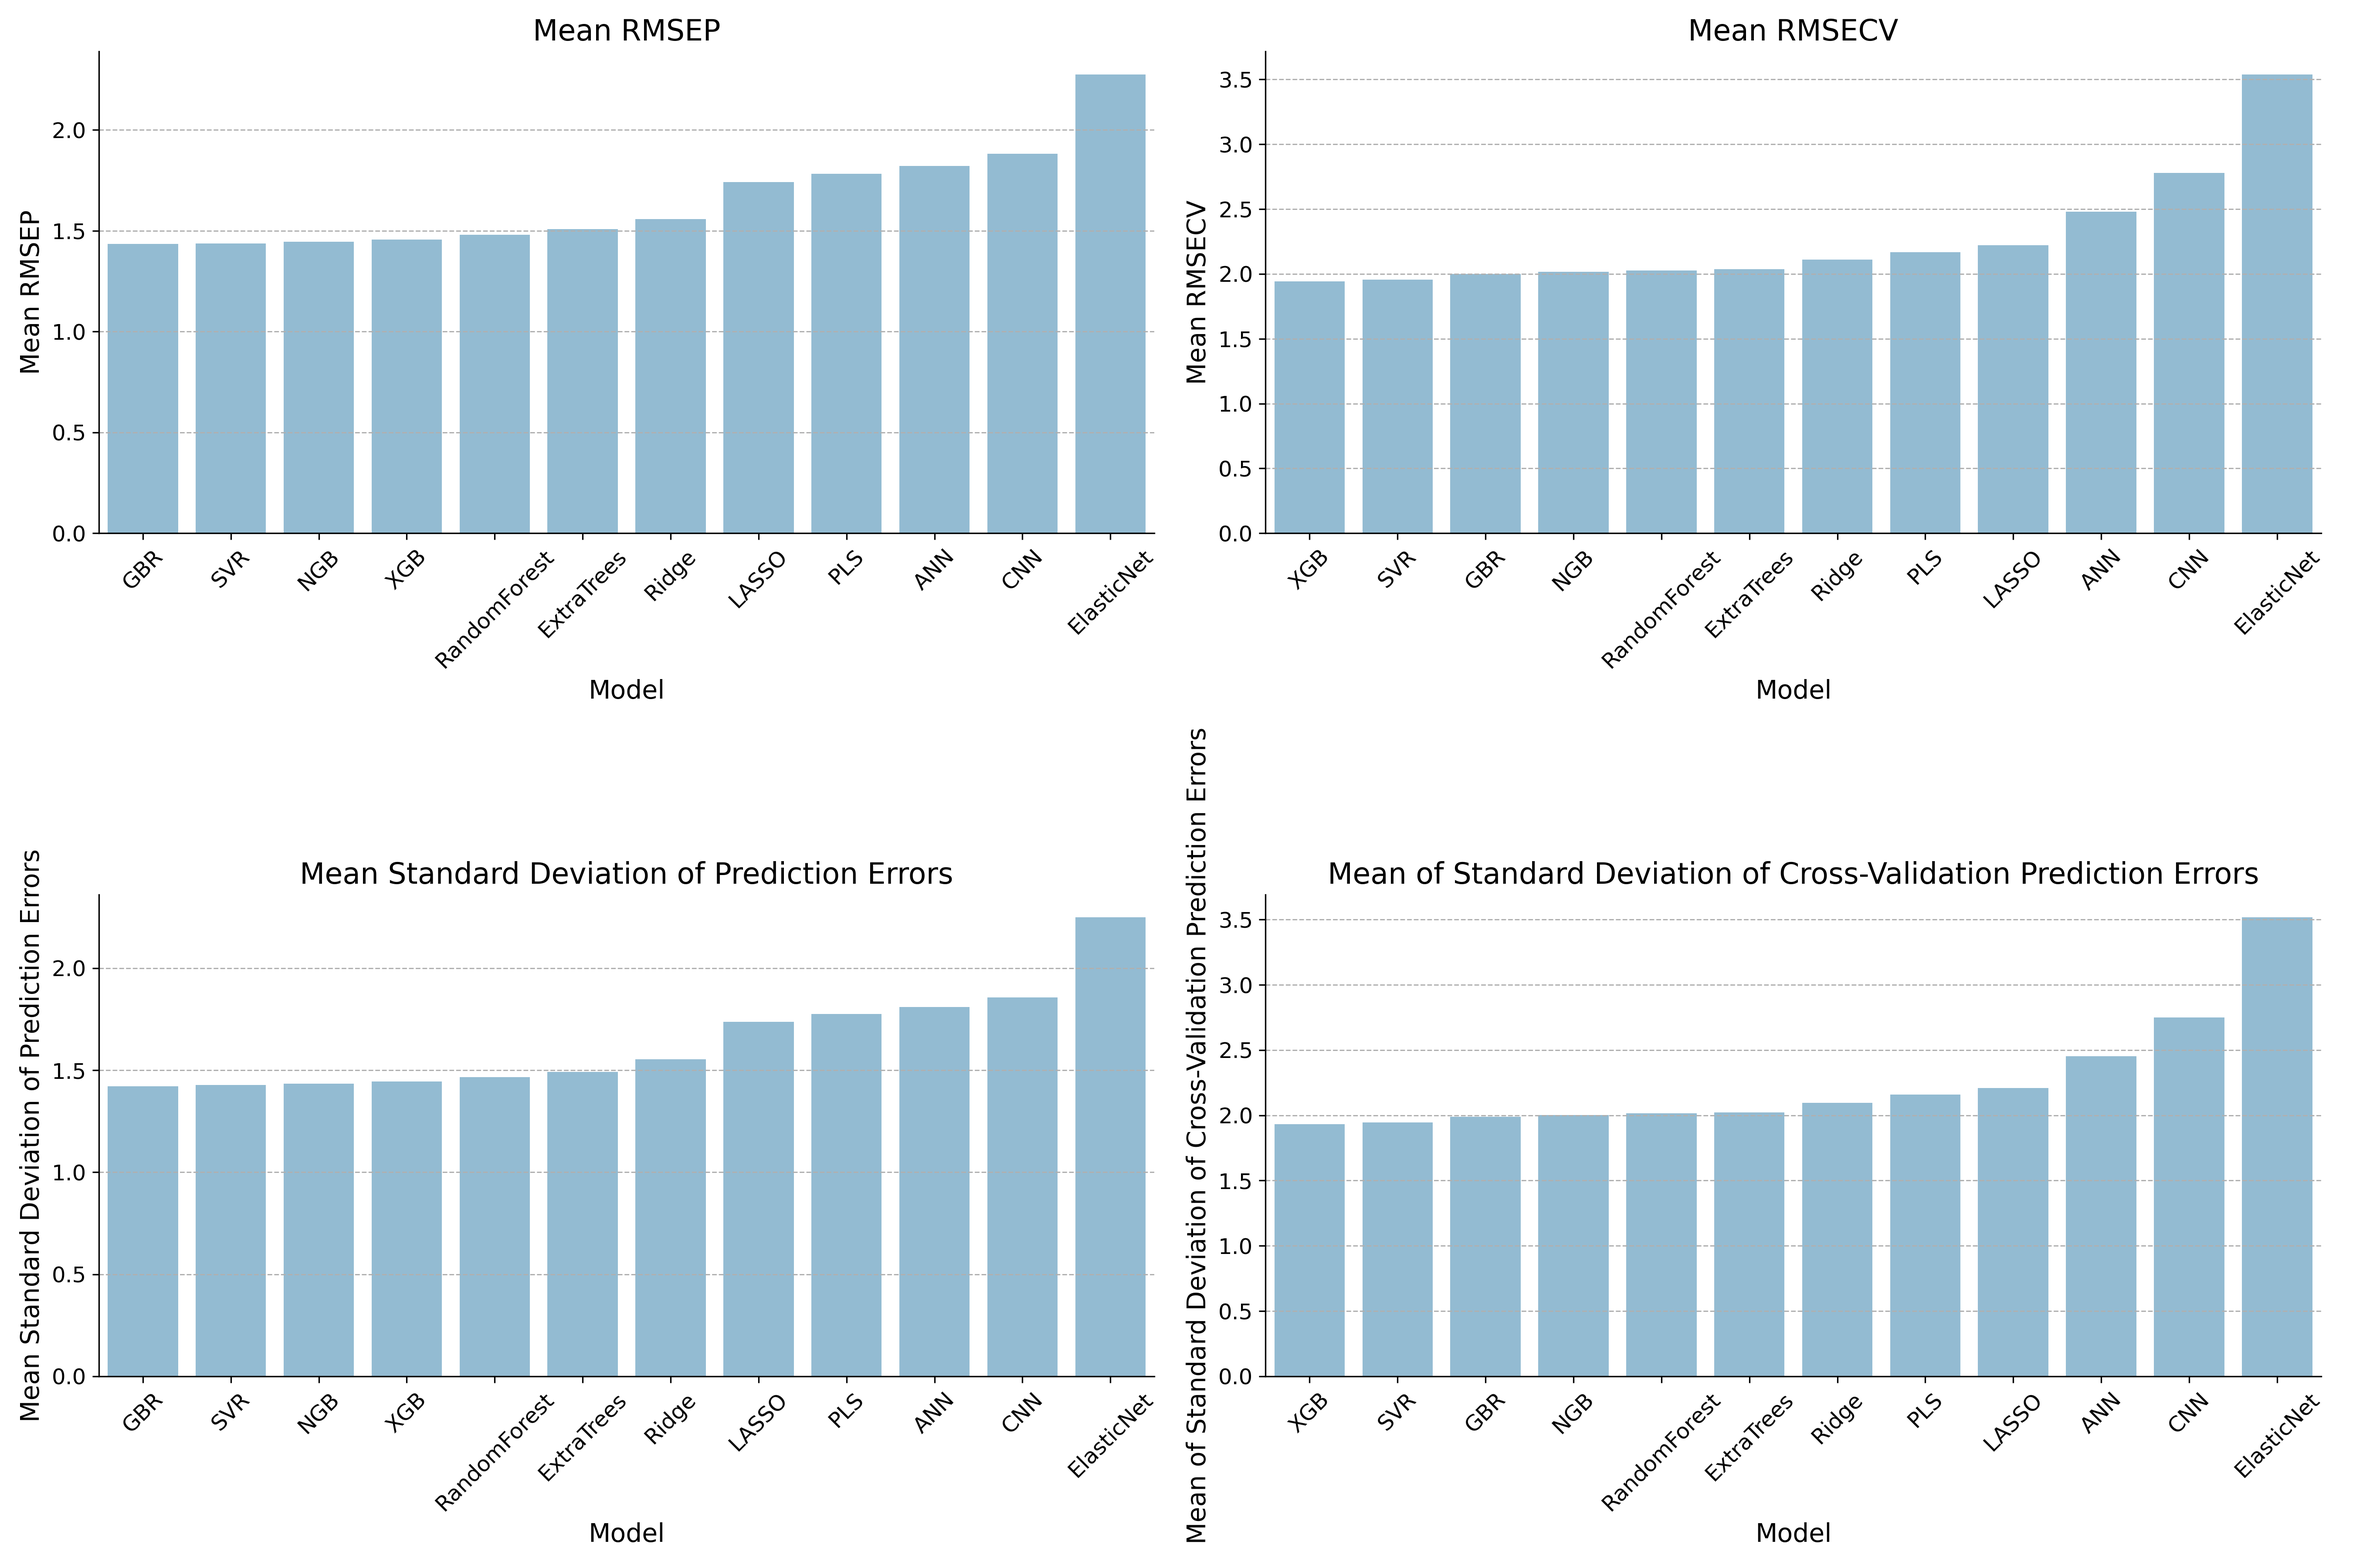
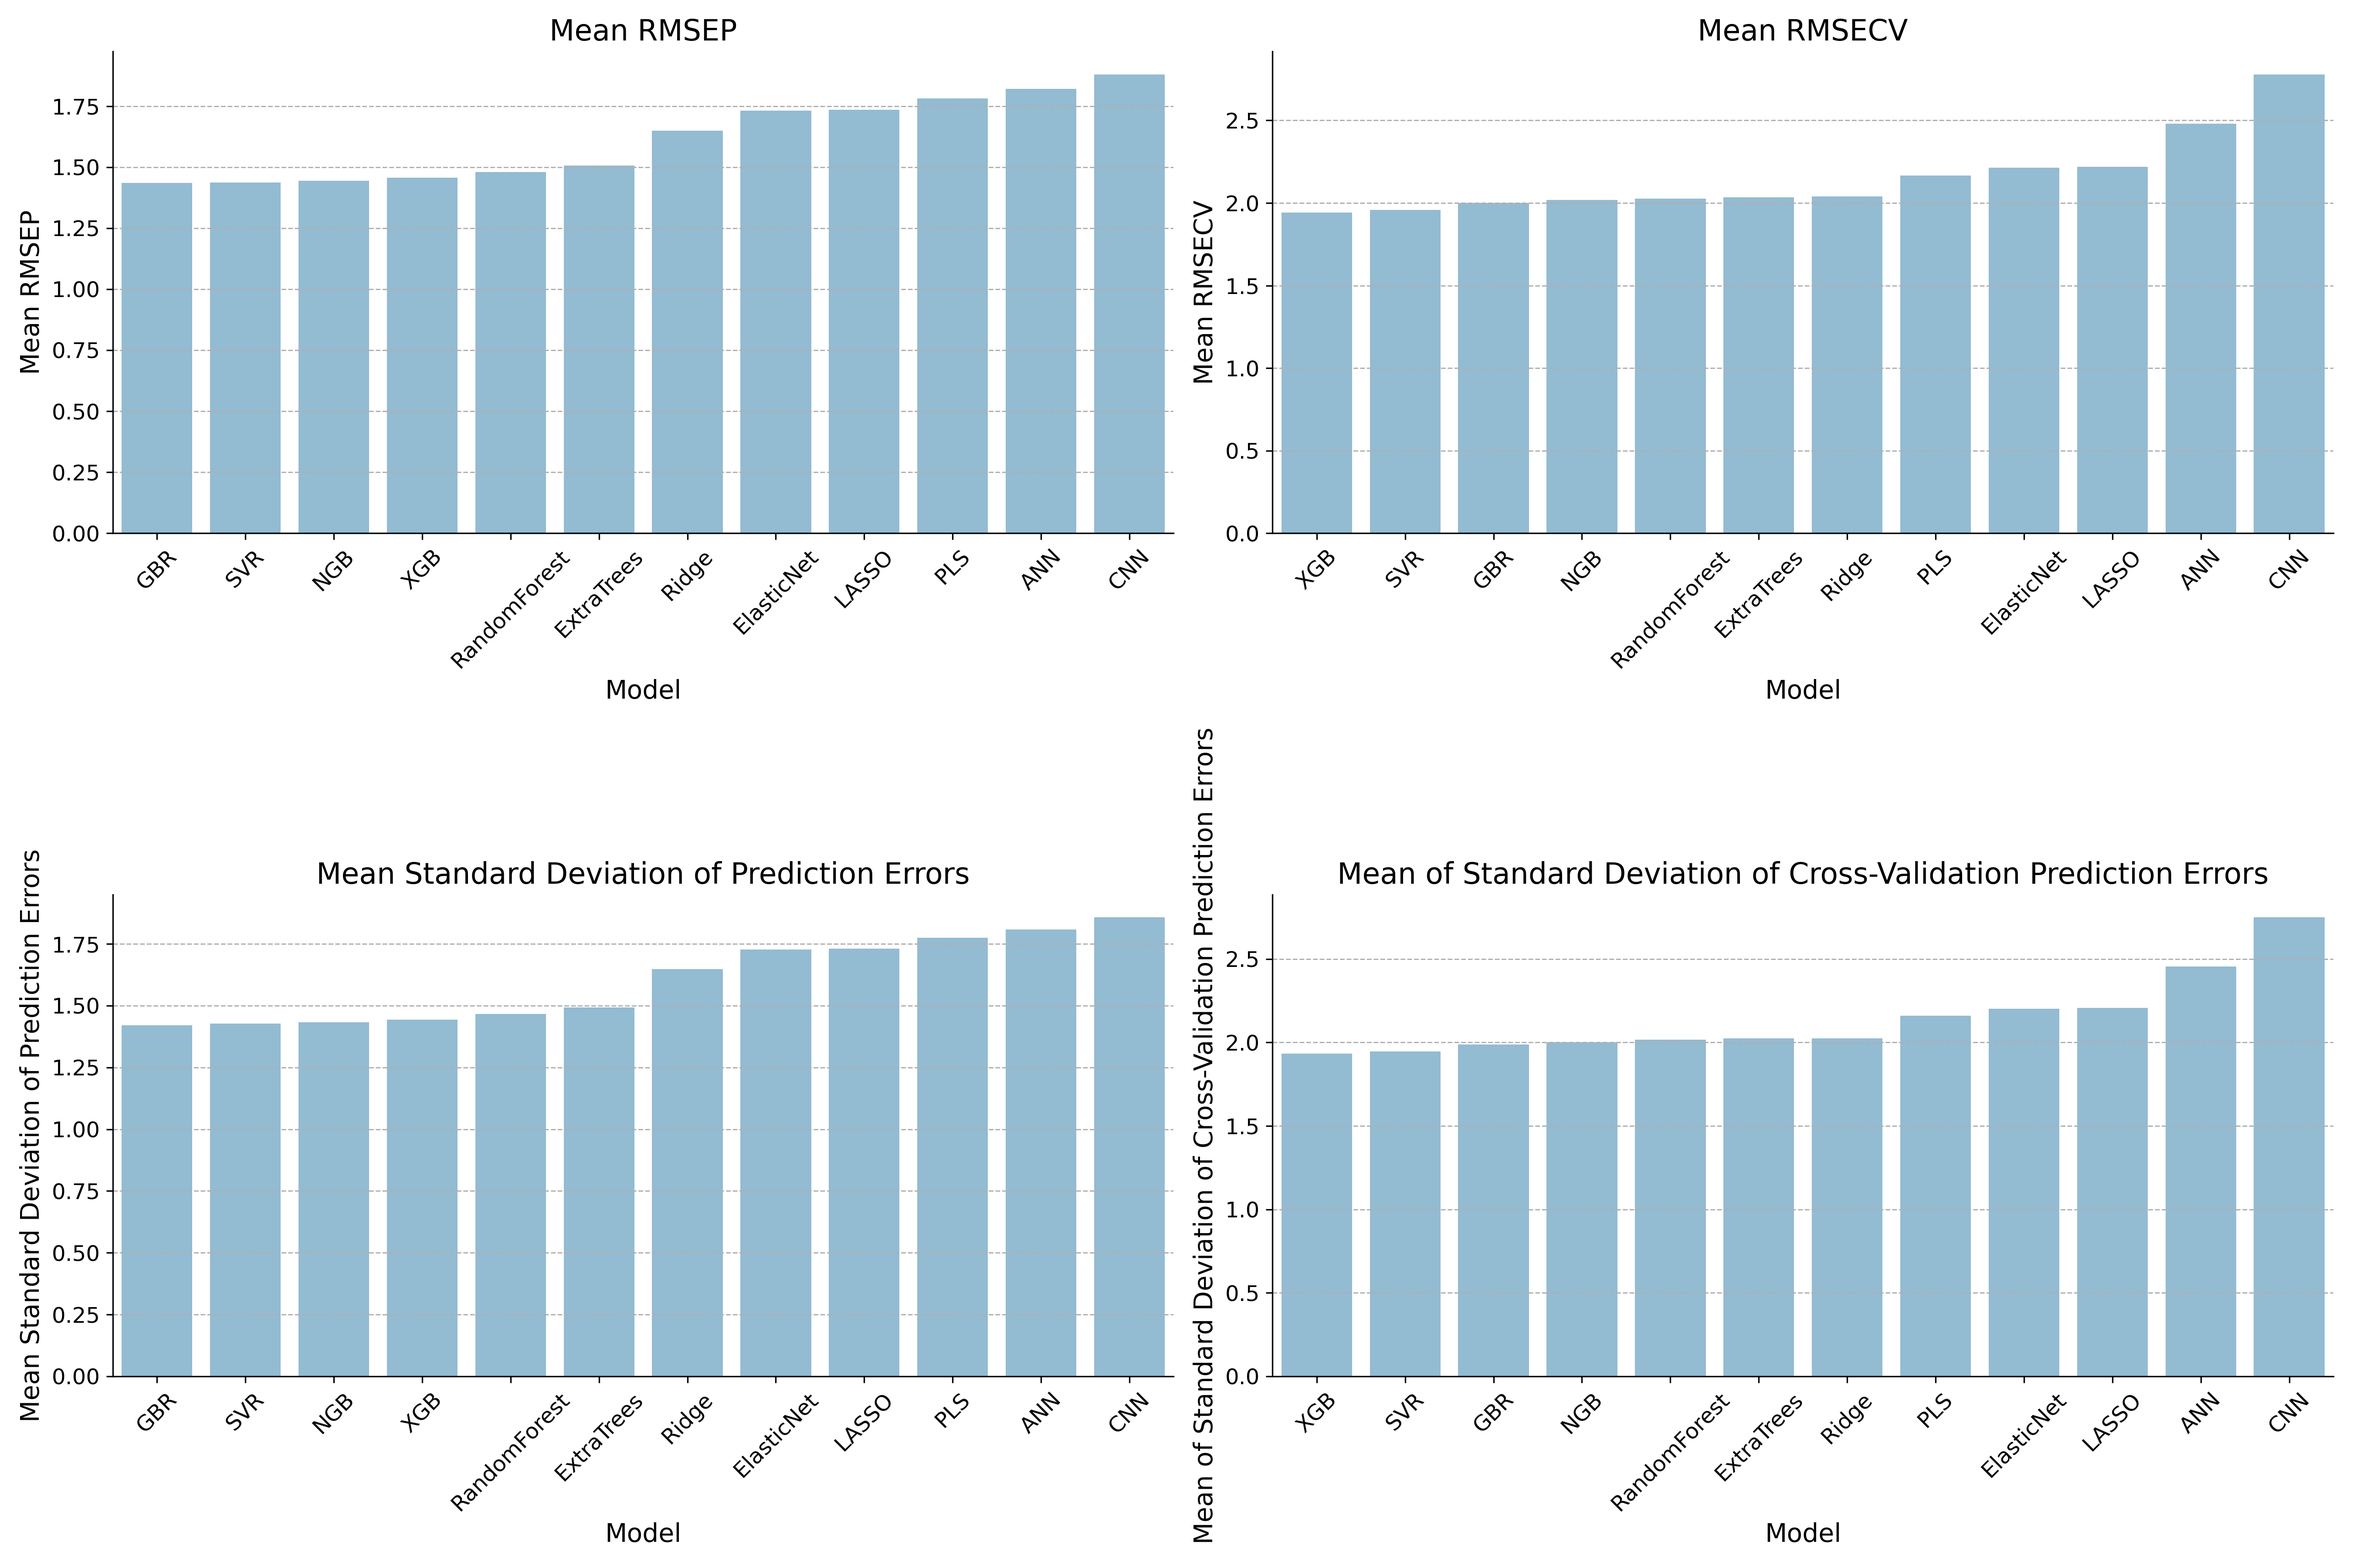
fixes and writing

diff --git a/report_thesis/src/sections/results/initial_results.tex b/report_thesis/src/sections/results/initial_results.tex
@@ -8,41 +8,30 @@ Table~\ref{tab:init_results} presents the results of these experiments, includin
 The means of each metric are also provided to give an overall indication of the models' performance.
 Furthermore, we present an overview of these mean values in Figure~\ref{fig:init_results_rmses} to facilitate a visual comparison of the models' general performance.
 
-The results show that the \gls{xgboost} and \gls{svr} models perform the best across all oxides.
-These models exhibit the lowest mean \gls{rmsep} and \gls{rmsecv} values, indicating their high accuracy.
-Additionally, their mean standard deviation values are among the lowest, underscoring their robustness.
-Their good performance is further underscored by Tables~\ref{tab:best_results} and \ref{tab:best_model_occurrences}, which show the best performing model for each oxide and the number of times each model was the best performing model according to any of the metrics, respectively.
+
+
+The results indicate that the gradient boosting models, \gls{xgboost}, \gls{gbr}, and \gls{ngboost}, consistently perform well across all oxides, with \gls{xgboost} generally outperforming the other two gradient boosting models.
+These models exhibit both low mean \gls{rmsep} and \gls{rmsecv} values, indicating high accuracy, as well as low standard deviation values, underscoring their robustness.
+\gls{svr} is also among the top-performing models, with mean \gls{rmsep} and \gls{rmsecv} values close to those of \gls{xgboost} and low standard deviation values.
+
+While usually outperformed by gradient boosting models and \gls{svr}, the ensemble models, \gls{rf} and \gls{etr}, also exhibit good performance.
+The \gls{pls}, ridge, \gls{lasso}, and \gls{enet} models typically seem to perform worse than the other models, with higher mean \gls{rmsep} and \gls{rmsecv} values and higher standard deviation values.
+We observe that \gls{enet} performs between ridge and \gls{lasso} in terms of both error and standard deviation, which aligns with expectations since \gls{enet} combines the regularization techniques of both models.
+This consistent placement underscores the reliability of our results and the soundness of our model evaluations.
+
+The \gls{cnn} and \gls{ann} models perform the worst across all oxides, exhibiting the highest mean \gls{rmsep} and \gls{rmsecv} values, as well as the highest standard deviation values.
+This poor performance is further highlighted in Table~\ref{tab:relative_performance}, which shows the relative performance of each model compared to the best-performing model, \gls{xgboost}.
+The table also includes the difference in performance relative to the next best model, with \gls{xgboost} serving as the baseline for comparison, assigned a relative performance of 100\%.
+From this table, it is evident that the \gls{cnn} and \gls{ann} models experience significant drops in performance compared to the top-performing models.
+While deep learning models such as these have the theoretical potential to perform well with \gls{libs} data, given their ability to learn complex patterns and relationships, the relatively small size of our dataset may limit their effectiveness.
+In addition, this would require more effective tuning of hyperparameters, which is challenging due to the vast number of possible permutations.
+Hyperparameter tuning akin to the method detailed in Section~{ref:optuna} could be pursued, but the required computational time would be prohibitive.
+For these reasons, we decided to exclude the \gls{cnn} and \gls{ann} models from further experimentation.
 
 Tables~\ref{tab:best_results} and \ref{tab:best_model_occurrences} which list the best-performing model for each oxide and the frequency with which each model achieves top performance according to various metrics, respectively.
 It is essential to clarify that these tables are intended to provide a comprehensive overview of model performance rather than to determine an overall 'winner by majority'.
 Their purpose is to illustrate the general trends and behavior of different models across various metrics and oxides.
 Although \gls{xgboost} and \gls{svr} appear the most frequently in Table~\ref{tab:best_model_occurrences}, this does not imply that they are the best models for every oxide.
-
-On the other hand, the \gls{enet}, \gls{cnn}, and \gls{ann} models perform the worst across all oxides, exhibiting the highest mean \gls{rmsep} and \gls{rmsecv} values, as well as the highest standard deviation values.
-This poor performance is further highlighted in Table~\ref{tab:relative_performance}, which shows the relative performance of each model compared to the best-performing model, \gls{xgboost}.
-The table also includes the difference in performance relative to the next best model, with \gls{xgboost} serving as the baseline for comparison, assigned a relative performance of 100\%.
-From this table, it is evident that the \gls{enet}, \gls{cnn}, and \gls{ann} models experience significant drops in performance compared to the top-performing models.
-
-While deep learning models such as \gls{cnn} and \gls{ann} have the theoretical potential to perform well with \gls{libs} data, given their ability to learn complex patterns and relationships, the relatively small size of our dataset may limit their effectiveness.
-Furthermore, these models could potentially outperform the other models if tuned more effectively.
-However, the sheer number of potential hyperparameters, configurations, architectures, and techniques makes it impractical to conduct a comprehensive search.
-Hyperparameter tuning akin to the method detailed in Section~{ref:optuna} could be pursued, but the required computational time would be prohibitive.
-
-% The unexpectedly poor performance of the \gls{enet} model is particularly notable.
-% Given that \gls{enet} is designed as a combination of Ridge and \gls{lasso} regression, leveraging both $L_1$ and $L_2$ regularization to balance the benefits of each, it was anticipated to perform at least as well as, if not better than, its individual components.
-% Surprisingly, both ridge and \gls{lasso} models outperformed \gls{enet}.
-% We expected \gls{enet} to perform better than or at least as well as ridge and \gls{lasso} regression, so this result was unexpected.
-% One possible explanation for this anomaly could be the selection of hyperparameters
-
-% We don't know why enet performed so poorly! Ridge and Lasso performed better than enet, which is surprising because enet is supposed to be a combination of the two. Maybe the hyperparameters used were very bad. We keep this in mind for the optimization phase.
-
-% We have a few thoughts on this:
-% Deep learning models such as \gls{cnn} and \gls{ann} should in theory work well for LIBS data, given their ability to learn complex patterns and relationships in data, but because the dataset is relatively small, they may not have enough data to learn these patterns effectively.
-% Also, it is possible that these models could outperform the other models if they were tuned more effectively, but because of the all the possible permutations of hyperparameters, configurations, architectures and techniques, the search space is too large to explore exhaustively.
-% While we could have done hyperparameter tuning similar to what we described in the Optuna section, it would have taken way too long.
-
-% Consequently, based on their high errors, large standard deviations, and overall poor accuracy and robustness across all oxides, we decided to exclude these models from further experiments.
-% This decision was made to maintain focus and prevent the inclusion of models that are unlikely to yield significant improvements in performance.
 
 \begin{figure*}[h]
     \centering

diff --git a/report_thesis/src/sections/results/init_results_table.tex b/report_thesis/src/sections/results/init_results_table.tex
@@ -5,16 +5,16 @@
 Model & \multicolumn{4}{c}{Ridge} & \multicolumn{4}{c}{\gls{lasso}} & \multicolumn{4}{c}{\gls{enet}} \\
 Metric & \multicolumn{1}{c}{RMSEP} & \multicolumn{1}{c}{RMSECV} & \multicolumn{1}{c}{Std. dev.} & \multicolumn{1}{c}{Std. dev. CV} & \multicolumn{1}{c}{RMSEP} & \multicolumn{1}{c}{RMSECV} & \multicolumn{1}{c}{Std. dev.} & \multicolumn{1}{c}{Std. dev. CV} & \multicolumn{1}{c}{RMSEP} & \multicolumn{1}{c}{RMSECV} & \multicolumn{1}{c}{Std. dev.} & \multicolumn{1}{c}{Std. dev. CV} \\
 \hline
-$\ce{SiO2}$ & 4.104 & 5.004 & 4.108 & 5.005 & 4.412 & 5.431 & 4.417 & 5.437 & 5.627 & 9.567 & 5.634 & 9.480 \\
-$\ce{TiO2}$ & 0.424 & 0.470 & 0.413 & 0.469 & 0.398 & 0.556 & 0.389 & 0.555 & 0.462 & 0.686 & 0.451 & 0.685 \\
-$\ce{Al2O3}$ & 2.000 & 3.115 & 2.002 & 3.094 & 2.349 & 3.063 & 2.352 & 3.044 & 3.812 & 4.699 & 3.811 & 4.649 \\
-$\ce{FeOT}$ & 1.752 & 3.385 & 1.746 & 3.335 & 2.236 & 3.490 & 2.238 & 3.440 & 2.627 & 5.221 & 2.596 & 5.177 \\
-$\ce{MgO}$ & 1.150 & 1.509 & 1.152 & 1.492 & 1.267 & 1.682 & 1.249 & 1.661 & 1.890 & 2.986 & 1.751 & 2.983 \\
-$\ce{CaO}$ & 1.809 & 1.513 & 1.792 & 1.496 & 1.963 & 1.554 & 1.962 & 1.549 & 2.318 & 2.851 & 2.306 & 2.852 \\
-$\ce{Na2O}$ & 0.564 & 1.221 & 0.565 & 1.215 & 0.668 & 1.126 & 0.668 & 1.120 & 0.738 & 1.215 & 0.734 & 1.215 \\
-$\ce{K2O}$ & 0.651 & 0.668 & 0.645 & 0.668 & 0.638 & 0.859 & 0.629 & 0.856 & 0.726 & 1.091 & 0.702 & 1.085 \\
+$\ce{SiO2}$ & 4.104 & 5.004 & 4.108 & 5.005 & 4.412 & 5.431 & 4.417 & 5.437 & 4.412 & 5.431 & 4.417 & 5.437 \\
+$\ce{TiO2}$ & 0.424 & 0.470 & 0.413 & 0.469 & 0.398 & 0.556 & 0.389 & 0.555 & 0.398 & 0.556 & 0.389 & 0.555 \\
+$\ce{Al2O3}$ & 2.322 & 2.913 & 2.324 & 2.888 & 2.349 & 3.063 & 2.352 & 3.044 & 2.349 & 3.063 & 2.352 & 3.044 \\
+$\ce{FeOT}$ & 2.068 & 3.173 & 2.070 & 3.122 & 2.236 & 3.490 & 2.238 & 3.440 & 2.236 & 3.490 & 2.238 & 3.440 \\
+$\ce{MgO}$ & 1.150 & 1.509 & 1.152 & 1.492 & 1.267 & 1.682 & 1.249 & 1.661 & 1.267 & 1.682 & 1.249 & 1.661 \\
+$\ce{CaO}$ & 1.844 & 1.485 & 1.833 & 1.478 & 1.963 & 1.554 & 1.962 & 1.549 & 1.963 & 1.554 & 1.962 & 1.549 \\
+$\ce{Na2O}$ & 0.632 & 1.089 & 0.633 & 1.084 & 0.625 & 1.114 & 0.616 & 1.111 & 0.588 & 1.085 & 0.587 & 1.082 \\
+$\ce{K2O}$ & 0.651 & 0.668 & 0.645 & 0.668 & 0.638 & 0.859 & 0.629 & 0.856 & 0.638 & 0.859 & 0.629 & 0.856 \\
 \hline
-Mean & 1.557 & 2.111 & 1.553 & 2.097 & 1.741 & 2.220 & 1.738 & 2.208 & 2.275 & 3.540 & 2.248 & 3.516 \\
+Mean & 1.649 & 2.039 & 1.647 & 2.026 & 1.736 & 2.219 & 1.732 & 2.207 & 1.731 & 2.215 & 1.728 & 2.203 \\
 \hline
 Model & \multicolumn{4}{c}{\gls{pls}} & \multicolumn{4}{c}{\gls{svr}} & \multicolumn{4}{c}{\gls{rf}} \\
 Metric & \multicolumn{1}{c}{RMSEP} & \multicolumn{1}{c}{RMSECV} & \multicolumn{1}{c}{Std. dev.} & \multicolumn{1}{c}{Std. dev. CV} & \multicolumn{1}{c}{RMSEP} & \multicolumn{1}{c}{RMSECV} & \multicolumn{1}{c}{Std. dev.} & \multicolumn{1}{c}{Std. dev. CV} & \multicolumn{1}{c}{RMSEP} & \multicolumn{1}{c}{RMSECV} & \multicolumn{1}{c}{Std. dev.} & \multicolumn{1}{c}{Std. dev. CV} \\
